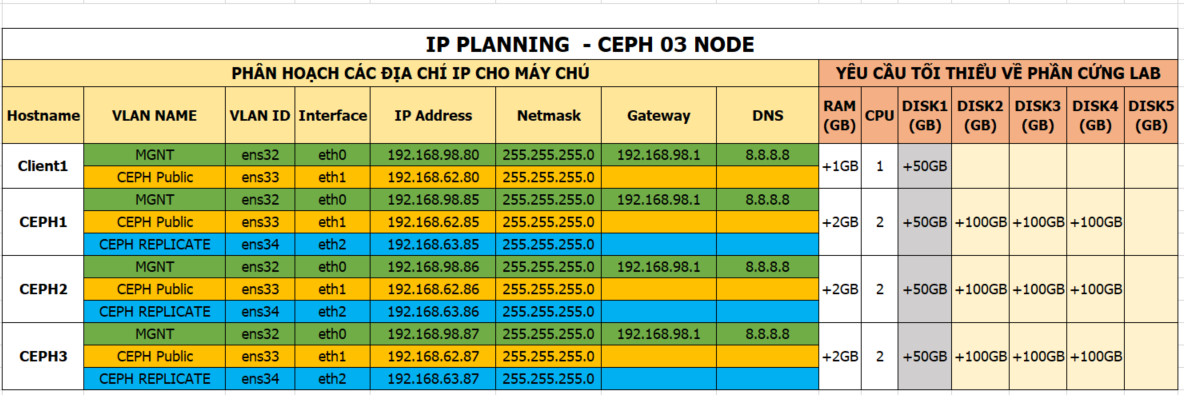
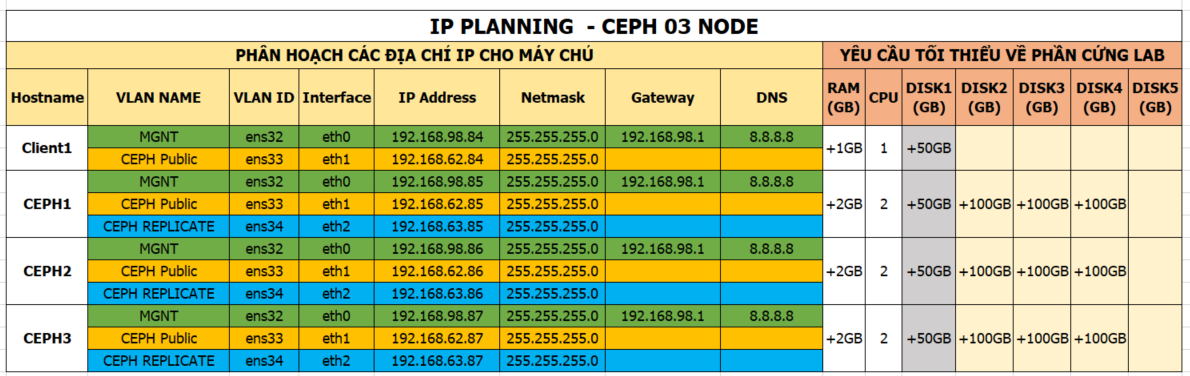
Cap nhat huong dan

diff --git a/docs/nautilus/02.huong_dan_cau_hinh_ceph_nautilus_su_dung_block.md b/docs/nautilus/02.huong_dan_cau_hinh_ceph_nautilus_su_dung_block.md
@@ -36,17 +36,17 @@ hostnamectl set-hostname cephclient1
 - Đặt IP cho node `cephclient1`
 
 ```sh
-echo "Setup IP  eth0"
-nmcli con modify eth0 ipv4.addresses 192.168.80.139/24
-nmcli con modify eth0 ipv4.gateway 192.168.80.1
-nmcli con modify eth0 ipv4.dns 8.8.8.8
-nmcli con modify eth0 ipv4.method manual
-nmcli con mod eth0 connection.autoconnect yes
+echo "Setup IP  ens32"
+nmcli con modify ens32 ipv4.addresses 192.168.98.84/24
+nmcli con modify ens32 ipv4.gateway 192.168.98.1
+nmcli con modify ens32 ipv4.dns 8.8.8.8
+nmcli con modify ens32 ipv4.method manual
+nmcli con modify ens32 connection.autoconnect yes
 
-echo "Setup IP  eth1"
-nmcli con modify eth1 ipv4.addresses 192.168.82.139/24
-nmcli con modify eth1 ipv4.method manual
-nmcli con mod eth1 connection.autoconnect yes
+echo "Setup IP  ens33"
+nmcli con modify ens33 ipv4.addresses 192.168.62.84/24
+nmcli con modify ens33 ipv4.method manual
+nmcli con modify ens33 connection.autoconnect yes
 ```
 
 -  Cấu hình các thành phần cơ bản
@@ -66,16 +66,18 @@ sed -i 's/SELINUX=enforcing/SELINUX=disabled/g' /etc/selinux/config
 - Khai báo file `/etc/hosts`
 
 ```sh
-echo "192.168.82.131 ceph1" >> /etc/hosts
-echo "192.168.82.132 ceph2" >> /etc/hosts
-echo "192.168.82.133 ceph3" >> /etc/hosts
-echo "192.168.82.139 cephclient1" >> /etc/hosts	
+cat << EOF > /etc/hosts
+127.0.0.1 `hostname` localhost
+192.168.62.84 client1
+192.168.62.85 ceph1
+192.168.62.86 ceph2
+192.168.62.87 ceph3
 
-
-echo "192.168.80.131 ceph1" >> /etc/hosts
-echo "192.168.80.132 ceph2" >> /etc/hosts
-echo "192.168.80.133 ceph3" >> /etc/hosts
-echo "192.168.80.139 cephclient1" >> /etc/hosts
+192.168.98.84 client1
+192.168.98.85 ceph1
+192.168.98.86 ceph2
+192.168.98.87 ceph3
+EOF
 ```
 	
 - Khởi động lại node client 
@@ -86,7 +88,7 @@ init 6
 
 ##### Tạo user `cephuser`, khai báo repos cài đặt CEPH cho node `cephclient1`
 	
--  Đăng nhập lai node `cephclient1` với IP mới `192.168.80.139`
+-  Đăng nhập lai node `cephclient1` với IP mới `192.168.98.84`
 
 - Thực hiện update OS và cài các gói bổ trợ
 

diff --git a/docs/nautilus/01.huong_dan_cai_dat_ceph_nautilus.md b/docs/nautilus/01.huong_dan_cai_dat_ceph_nautilus.md
@@ -3,7 +3,7 @@
 ## 1. Môi trường cài đặt
 
 - CentOS 7.x 64bit
-- CEPH Nautilus 
+- CEPH Nautilus version 14.2.7
 - Phương thức sử dụng để triển khai ceph `ceph-deploy`
 - Vai trò các node như sau:
   - CEPH Admin nodes: `ceph1`
